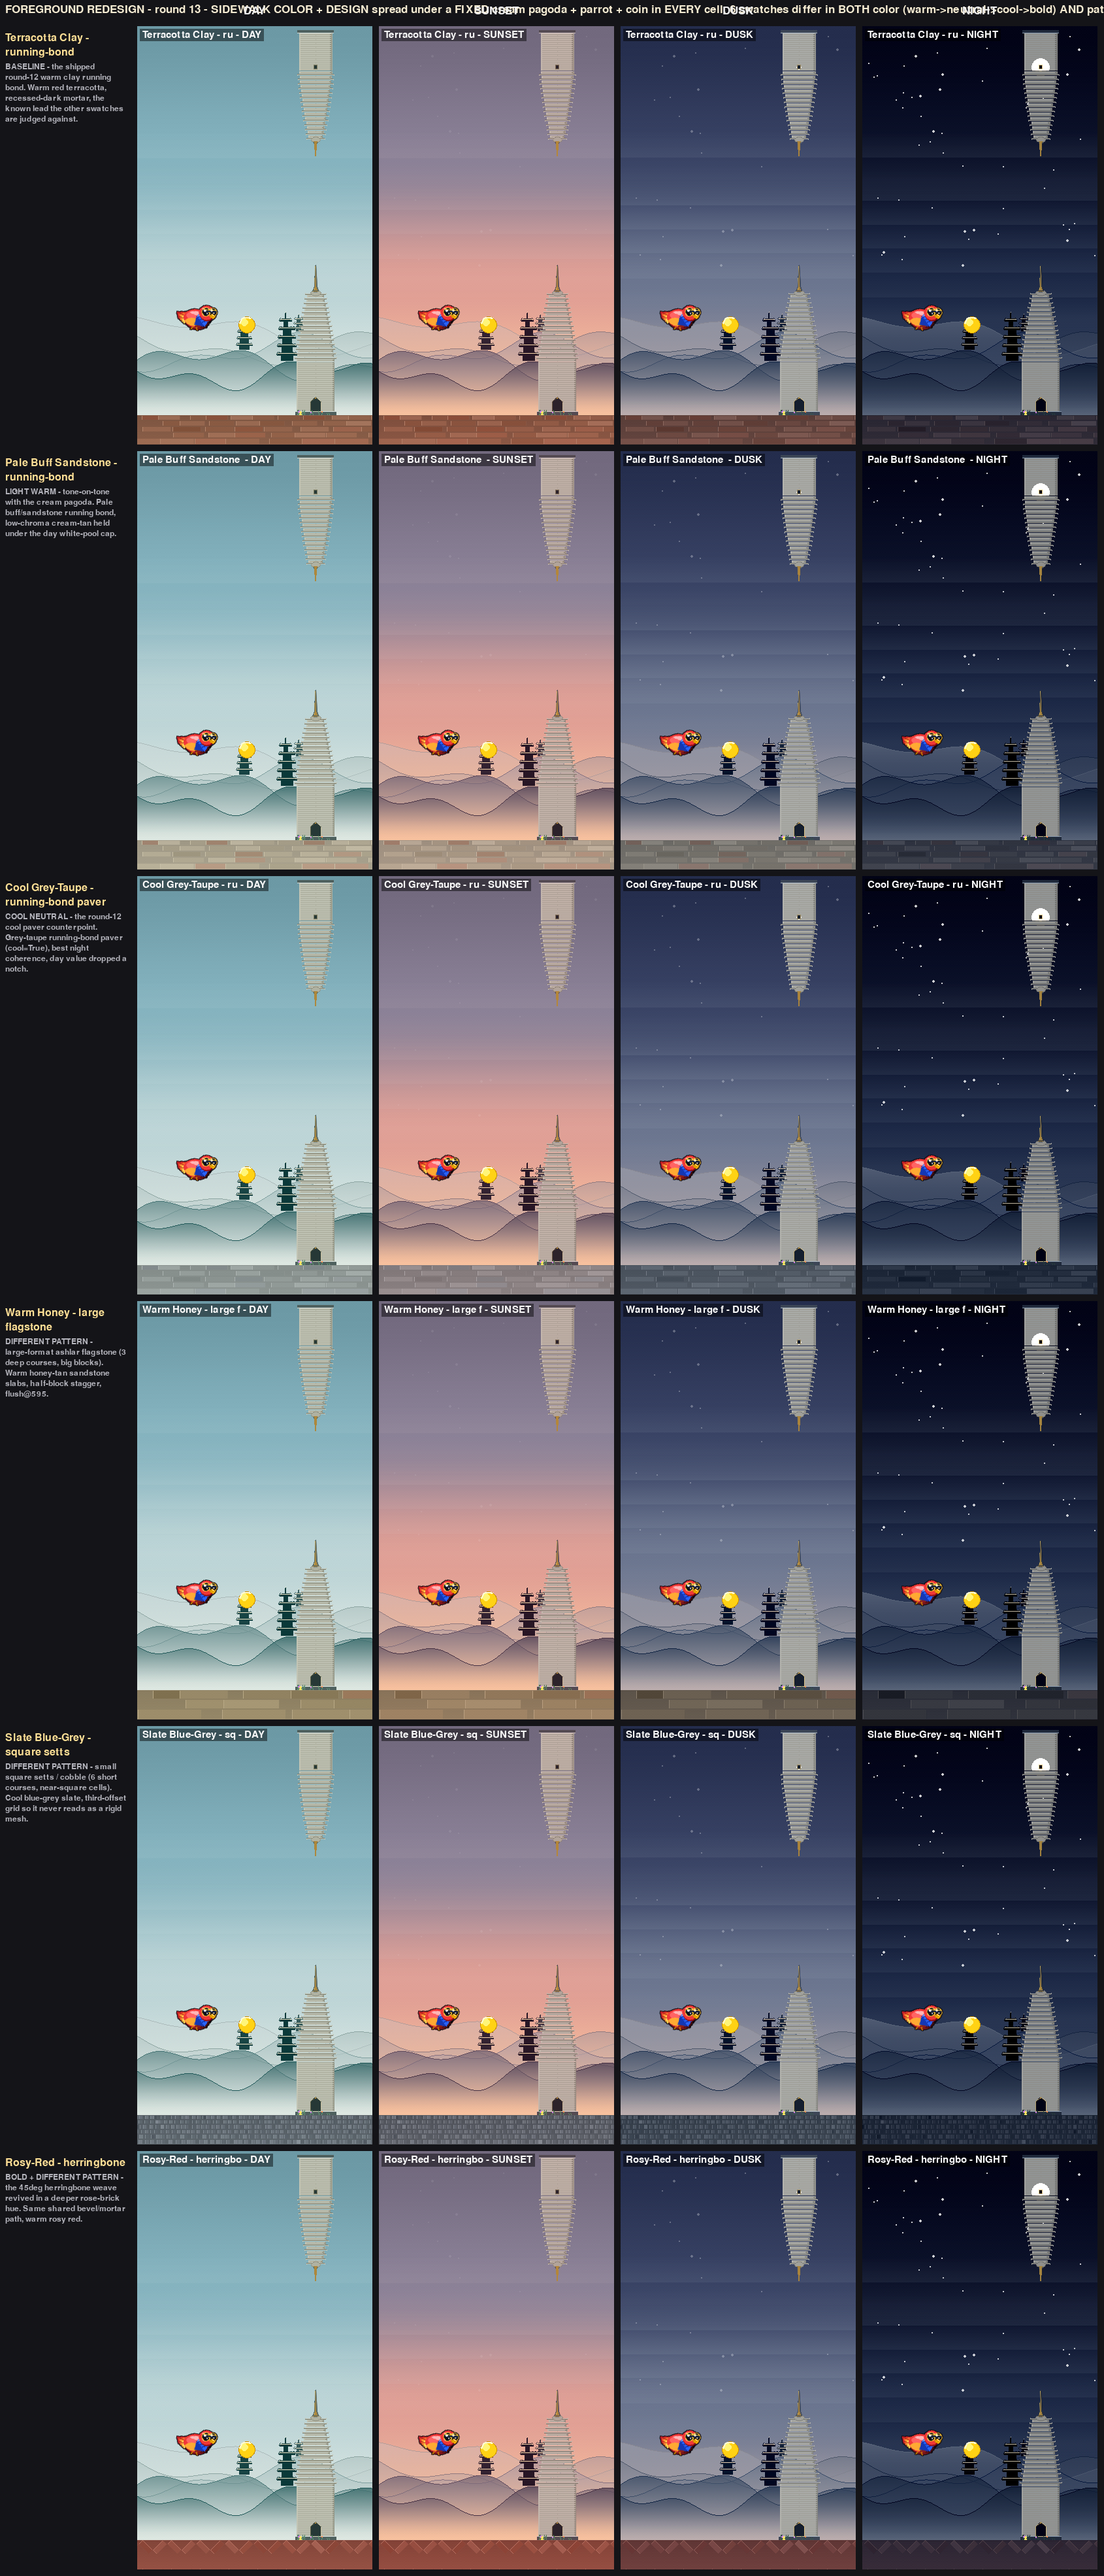
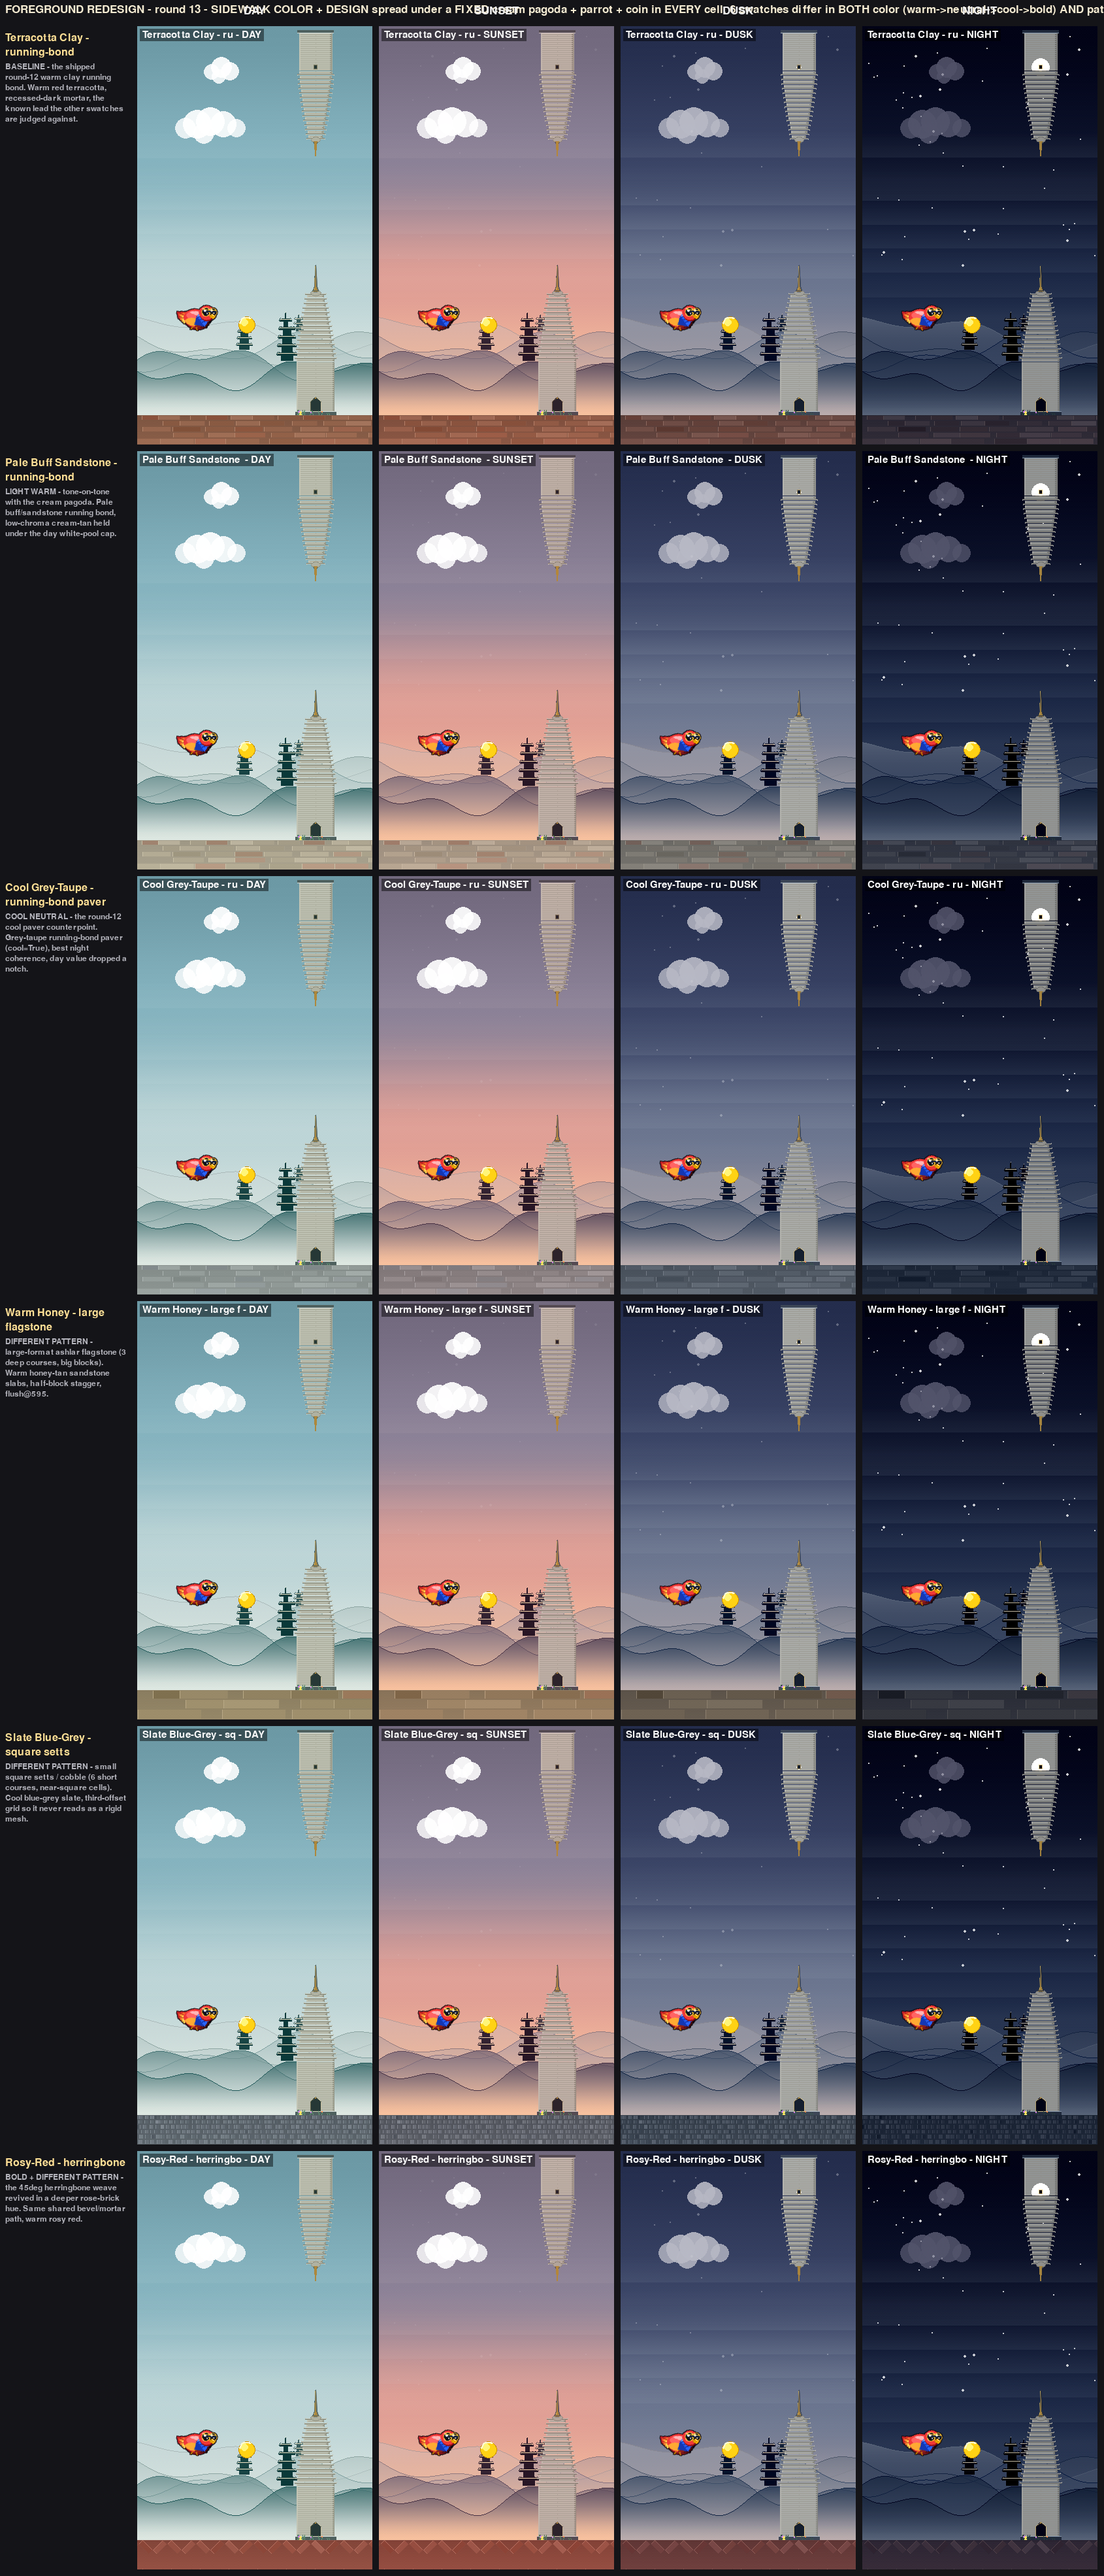
foreground round 13: add drifting clouds (pagoda-branch draw_cloud) to the sheet
Reuse game.draw.draw_cloud with the pillar-exploration parallax/variant layout,
painted to a layer and dimmed/cooled toward night via fg._nightf so the white
puffs read as moonlit cloud at dusk/night instead of glowing. Render-harness
only; nothing written into game/.

diff --git a/archive/foreground_redesign/render_foreground.py b/archive/foreground_redesign/render_foreground.py
@@ -59,7 +59,7 @@ import foreground_grounded as fg
 import game.ground_variants as gv
 import game.parrot as parrot
 from game.config import BIRD_X, BIRD_R, COIN_R
-from game.draw import COIN_GOLD, COIN_LIGHT, COIN_DARK
+from game.draw import COIN_GOLD, COIN_LIGHT, COIN_DARK, draw_cloud
 
 
 # ── biome held constant: misty_gorge, one of the locked sky winners ───────────
@@ -115,6 +115,25 @@ def _paint_context(phase):
     ctx = se.SceneCtx(surf, W, H, GROUND_Y, phase, SCROLL, SPEC._pal(phase), pal)
     import biome_motifs as bm
     bm.gorge_mist(ctx)
+
+    # 2b. Drifting clouds — the same hand-tuned `draw_cloud` puff shapes and
+    # parallax layout the pagoda-pillar exploration screenshots used, layered
+    # over the haze and behind the ridges so they read as sky depth. Painted to
+    # their own layer so the puffs are dimmed + cooled toward night: the bright
+    # white reads as moonlit cloud at dusk/night instead of glowing.
+    cloud_layer = pygame.Surface((W, H), pygame.SRCALPHA)
+    for i, (bx, by, sc, variant) in enumerate((
+            (40, 95, 0.9, 0), (200, 150, 1.0, 2),
+            (90, 230, 0.8, 3), (270, 70, 0.7, 1))):
+        ox = ((bx - SCROLL * (0.04 + 0.02 * i)) % (W + 160)) - 80
+        draw_cloud(cloud_layer, ox, by + math.sin(0.45 + i) * 3, sc, variant=variant)
+    night = fg._nightf(pal)
+    cloud_layer.fill((int(255 * (1 - 0.55 * night)),
+                      int(255 * (1 - 0.55 * night)),
+                      int(255 * (1 - 0.46 * night)),
+                      int(255 * (1 - 0.30 * night))),
+                     special_flags=pygame.BLEND_RGBA_MULT)
+    surf.blit(cloud_layer, (0, 0))
 
     # 3. V14 "Pagoda-Crowned Ridges" — shim the mountain module's biome so it
     # reads the held misty_gorge palette, then restore.
